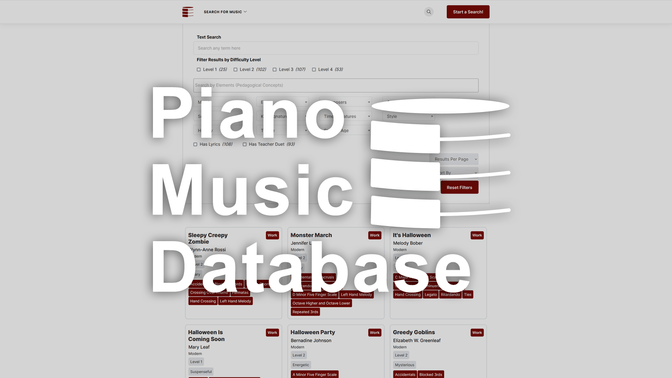
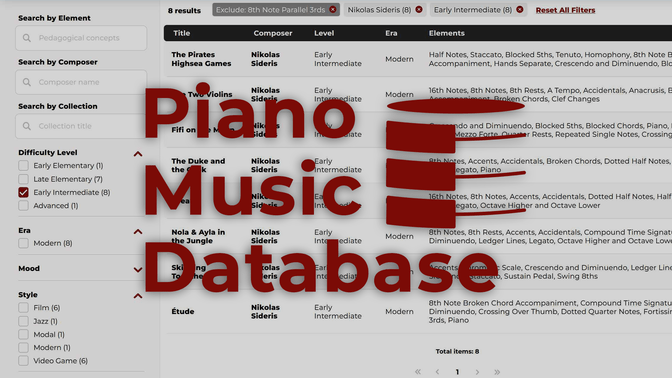
Fix PMD Thumbnail
The thumbnail on the home page for Piano Music Database was not updated with the new website version. The thumbnail now includes a new version screenshot.

diff --git a/pmd.html b/pmd.html
@@ -75,14 +75,14 @@
 
             <section id="software">
                 <h2>Software Used:</h2>
-                <p>Adobe Illustrator, Adobe Photoshop, HTML, CSS (<a href="https://tailwindcss.com" title="Visit Tailwind CSS at TailwindCSS.com" target="_blank" rel="noopener noreferrer">Tailwind CSS</a>), JavaScript (<a href="https://nextjs.org" title="Visit Next.js at NextJS.org" target="_blank" rel="noopener noreferrer">Next.js</a>), Web Server</p>
+                <p>Adobe Illustrator, Adobe Photoshop, HTML, CSS (<a href="https://tailwindcss.com" title="Visit Tailwind CSS at TailwindCSS.com" target="_blank" rel="noopener noreferrer">Tailwind CSS</a>), JavaScript (<a href="https://nextjs.org" title="Visit Next.js at NextJS.org" target="_blank" rel="noopener noreferrer">Next.js</a>)</p>
             </section>
 
             <section id="overview">
                 <h2>Work Overview:</h2>
                 <p>Piano Music Database (PMD) is a free online tool that helps you easily & quickly find music for your piano students. Search for pieces that incorporate specific pedagogical concepts; filter your results by mood, theme, style, and more!</p>
 
-                <p>Initial versions of the website were made using <a href="https://WordPress.org" title="Visit WordPress at WordPress.org" target="_blank" rel="noopener noreferrer">WordPress</a> to test the feasibility of a piano music database website on mobile and desktop. Currently the website is a "<a href="https://nextjs.org" title="Visit Next.js at NextJS.org" target="_blank" rel="noopener noreferrer">Next.js</a> with <a href="https://tailwindcss.com" title="Visit Tailwind CSS at TailwindCSS.com" target="_blank" rel="noopener noreferrer">Tailwind CSS</a>" PWA/website which is deployed from a GitHub repository to <a href="https://aws.amazon.com" title="Visit Amazon AWS at aws.amazon.com" target="_blank" rel="noopener noreferrer">AWS</a> servers using <a href="https://aws.amazon.com/codedeploy" title="Visit Amazon AWS CodeDeploy at aws.amazon.com/codedeploy" target="_blank" rel="noopener noreferrer">AWS CodeDeploy</a> in <a href="https://aws.amazon.com/codepipeline" title="Visit Amazon AWS CodePipeline at aws.amazon.com/codepipeline" target="_blank" rel="noopener noreferrer">AWS CodePipeline</a>. The search engine is powered by <a href="https://typesense.org" title="Visit Typesense at Typesense.org" target="_blank" rel="noopener noreferrer">Typesense</a> and the work data is gathered from a <a href="https://strapi.io" title="Visit Strapi at Strapi.io" target="_blank" rel="noopener noreferrer">Strapi</a> API.</p>
+                <p>Initial versions of the website were made using <a href="https://WordPress.org" title="Visit WordPress at WordPress.org" target="_blank" rel="noopener noreferrer">WordPress</a> to test the feasibility of a piano music database website on mobile and desktop. Currently the website is a "<a href="https://nextjs.org" title="Visit Next.js at NextJS.org" target="_blank" rel="noopener noreferrer">Next.js</a> with <a href="https://tailwindcss.com" title="Visit Tailwind CSS at TailwindCSS.com" target="_blank" rel="noopener noreferrer">Tailwind CSS</a>" PWA/website which is deployed from a <a href="https://github.com" title="Visit GitHub at github.com" target="_blank" rel="noopener noreferrer">GitHub</a> repository to <a href="https://aws.amazon.com" title="Visit Amazon AWS at aws.amazon.com" target="_blank" rel="noopener noreferrer">AWS</a> servers using <a href="https://aws.amazon.com/codedeploy" title="Visit Amazon AWS CodeDeploy at aws.amazon.com/codedeploy" target="_blank" rel="noopener noreferrer">AWS CodeDeploy</a> in <a href="https://aws.amazon.com/codepipeline" title="Visit Amazon AWS CodePipeline at aws.amazon.com/codepipeline" target="_blank" rel="noopener noreferrer">AWS CodePipeline</a>. The search engine is powered by <a href="https://typesense.org" title="Visit Typesense at Typesense.org" target="_blank" rel="noopener noreferrer">Typesense</a> and the work data is gathered from a <a href="https://strapi.io" title="Visit Strapi at Strapi.io" target="_blank" rel="noopener noreferrer">Strapi</a> API.</p>
 
                 <p>The current branding (logo, font, color, social media post/email newsletter images, banners, etc) is designed using Adobe Illustrator and Adobe Photoshop.</p>
 
@@ -100,7 +100,7 @@
 
                 <hr>
 
-                <div class="marginvert"><a class="button" href="https://pianomusicdatabase.com" target="_blank" rel="noopener noreferrer" title="Go to Piano Music Database - A Database of Piano Music">Go to PianoMusicDatabase.com</a></div>
+                <div class="marginvert"><a class="button" href="https://pianomusicdatabase.com" target="_blank" rel="noopener noreferrer" title="Visit Piano Music Database at PianoMusicDatabase.com">Go to PianoMusicDatabase.com</a></div>
             </section>
         </article>
     </main>
